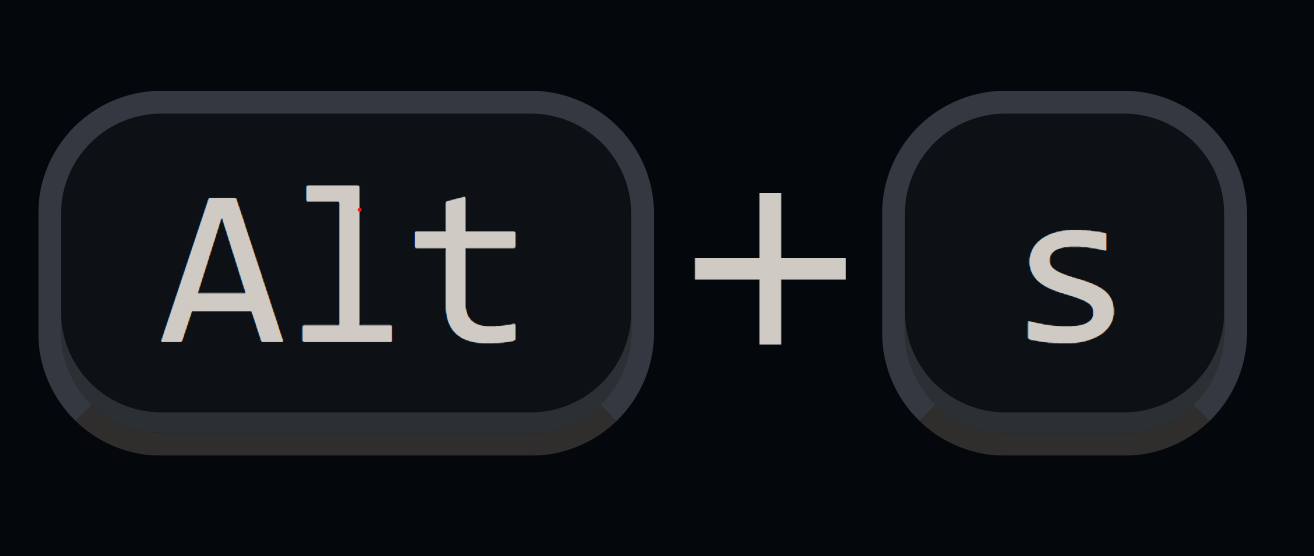
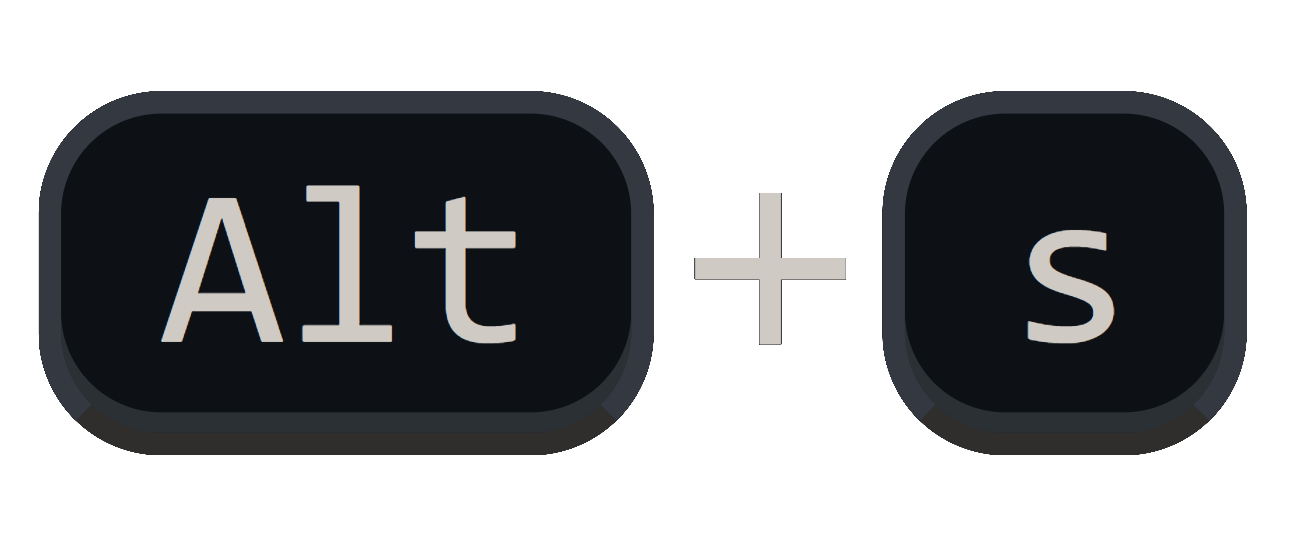
Version 4.2.4 Release #### Documentation - Updated Linux keybinding graphic to have proper transparency - now it will look great on any background - Re-ordered some items in the Readme - **[In Progress]** Worked on fix for Linux web users (Linux users using VS Code for Web) to use the specific Linux

diff --git a/README.md b/README.md
@@ -124,13 +124,13 @@ Replaced by `webSearch.searchEngines`, allowing you to add multiple search engin
 - ~~Use only one search engine (no submenu) if only one search engine is in settings~~
 - ~~Add a submenu to the function and allow multiple websites to be searched from~~
 - ~~Show message to user if they added a search engine that doesn't have a query~~
-- ~~Phase out old webSearch.searchEngine setting (use deprecationMessage)~~
 - ~~If no text selected, running the extension will prompt for text to search for~~
+- ~~Phase out old webSearch.searchEngine setting (use deprecationMessage)~~
 - ~~Use JSON pattern restriction for search engines setting to validate URLs~~
-- ~~Display search query in QuickPick URL (maybe, might be too long)~~
-- ~~Add screenshot of new extension settings search engine manager~~
-- ~~Add setting toggle to enable/disable search if submenu dismissed~~
 - ~~Rework extension settings to better allow removing/editing entries~~
+- ~~Add setting toggle to enable/disable search if submenu dismissed~~
+- ~~Add screenshot of new extension settings search engine manager~~
+- ~~Display search query in QuickPick URL (maybe, might be too long)~~
 - ~~Remove duplicated release notes and consolidate in Changelog~~
 - ~~Allow a preferred default search engine to be set in settings~~
 - ~~Ensure keybinding works properly on all operating systems~~
@@ -138,19 +138,19 @@ Replaced by `webSearch.searchEngines`, allowing you to add multiple search engin
 - ~~Consolidate commands into one command palette entry~~
 - ~~Update extension icon and/or add more device sizes~~
 - ~~Add extension setting to toggle the right click menu~~
-- ~~Add more default search engines for the extension~~
 - ~~Show search engine name in the Command Palette~~
+- ~~Add more default search engines for the extension~~
 - ~~Decide on updating brace formatting preferences~~
 - ~~Add GIF animation to show how extension works~~
 - ~~Enable extension to run on VS Code for the web~~
-- ~~Add monitors for code dependency changes~~
 - ~~Enforce that search engines begin with http*~~
+- ~~Add monitors for code dependency changes~~
 - ~~If no search engine is selected, do nothing~~
 - ~~Add keyboard shortcuts to perform search~~
 - ~~Add more screenshots of extension usage~~
 - ~~Use default query if no query is provided~~
-- ~~Move images to consolidated folder~~
 - ~~Add screenshots of the new settings~~
+- ~~Move images to consolidated folder~~
 - ~~Perform more code refactoring~~
 - ~~Add license to the project~~
 

diff --git a/CHANGELOG.md b/CHANGELOG.md
@@ -1,11 +1,22 @@
 # Changelog
 
+## [4.2.4] (2022-07-23)
+#### Documentation
+* Updated Linux keybinding graphic to have proper transparency - now it will look great on any background
+* Re-ordered some items in the Readme
+
+#### Bug Fixes
+* **[In Progress]** Worked on fix for Linux web users (Linux users using VS Code for Web) to use the specific Linux keyboard shortcut, as it works for desktop Linux, but the web version was still showing the normal extension keybinding instead of the special one reserved just for Linux, introduced in release `4.1.13`. *I am still testing this, but I believe this version will fix it.*
+
+#### House Keeping
+* Updated a few more dependencies
+
 ## [4.2.3] (2022-07-19)
 #### Features
 * Enforced all search engines to be valid URLs (now must begin with **http** or **https**). This will make it easier for users to add new search engines that can be used right away
 
 #### Bug Fixes
-* Worked on fix for Linux web users (Linux users using VS Code for Web) to use the specific Linux keyboard shortcut, as it works for desktop Linux, but the web version was still showing the normal extension keybinding instead of the special one reserved just for Linux, introduced in release `4.1.13`. *I am still testing this, but I believe this version will fix it.*
+* **[In Progress]**  Worked on fix for Linux web users (Linux users using VS Code for Web) to use the specific Linux keyboard shortcut, as it works for desktop Linux, but the web version was still showing the normal extension keybinding instead of the special one reserved just for Linux, introduced in release `4.1.13`.
 
 #### Documentation
 * Added in the extension's settings that website search engines must begin with http or https
